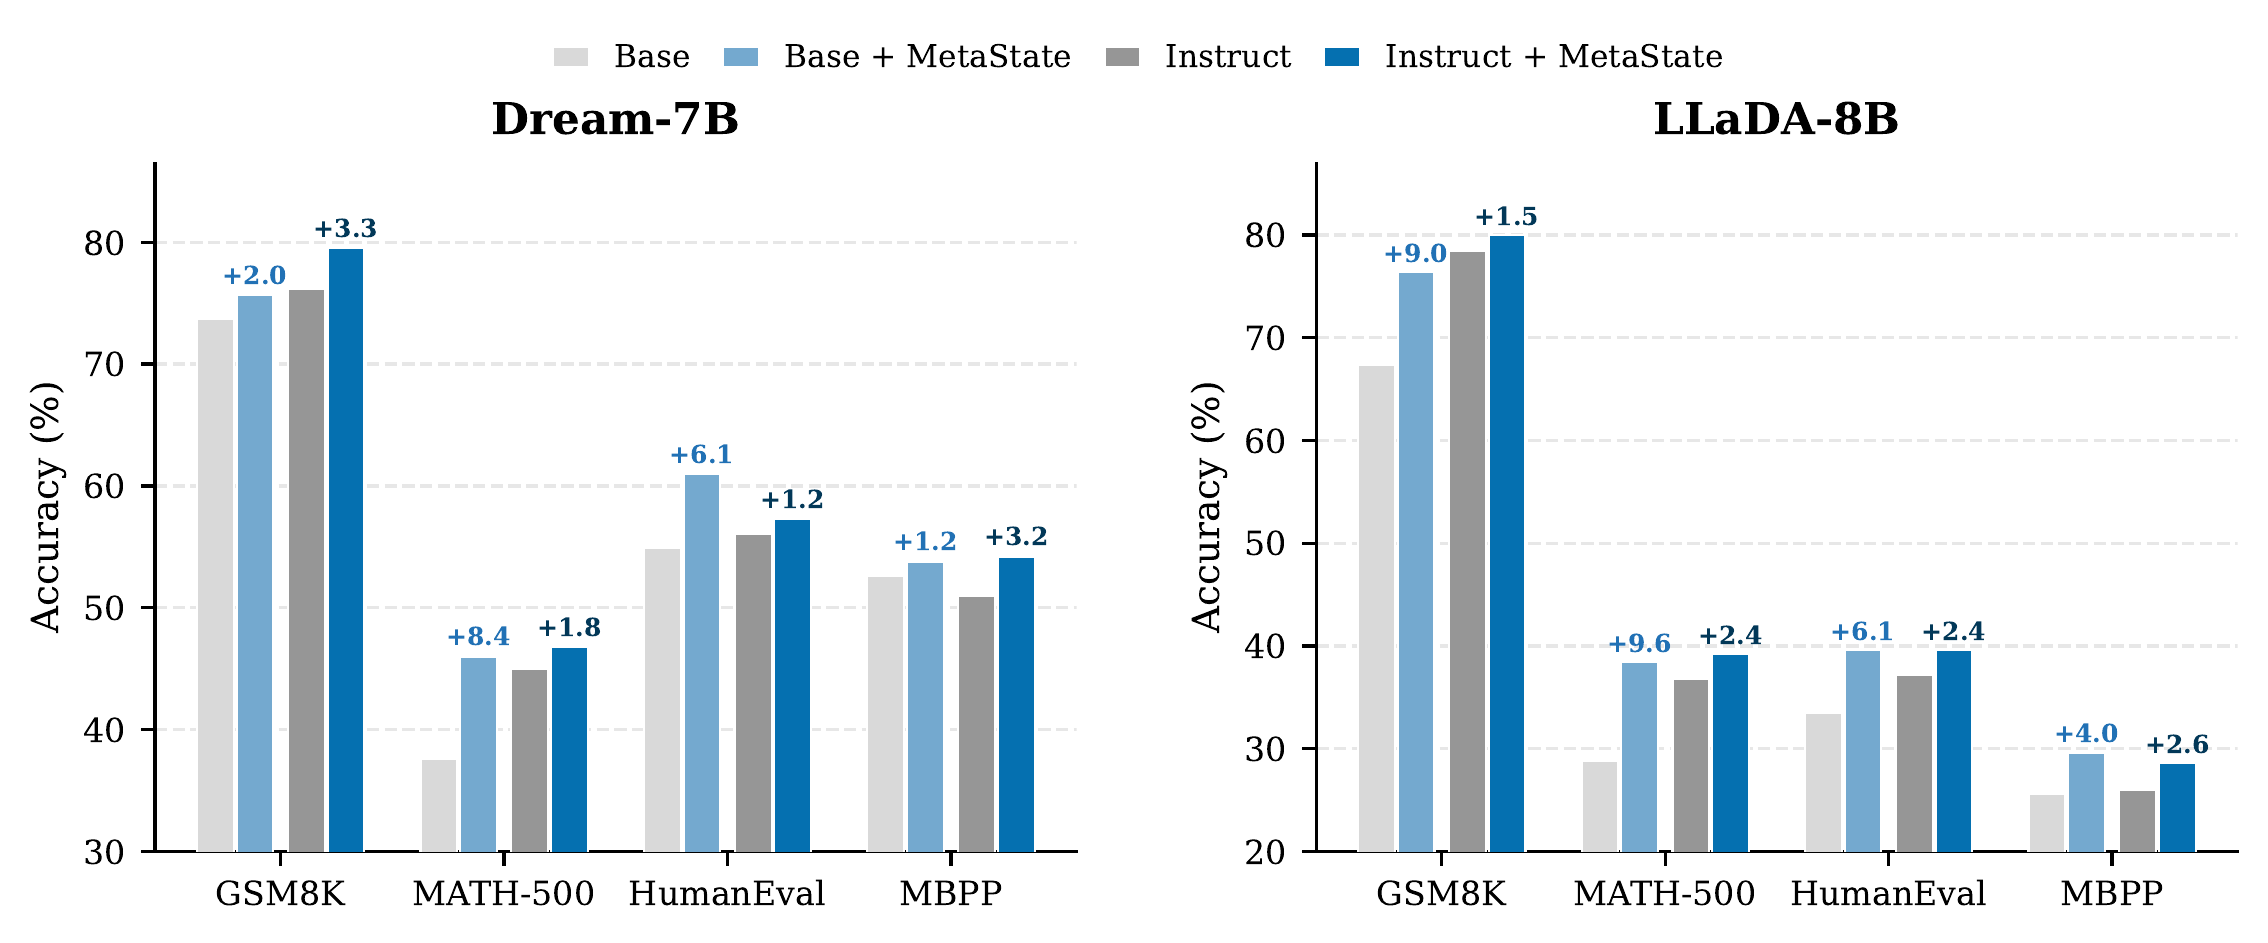
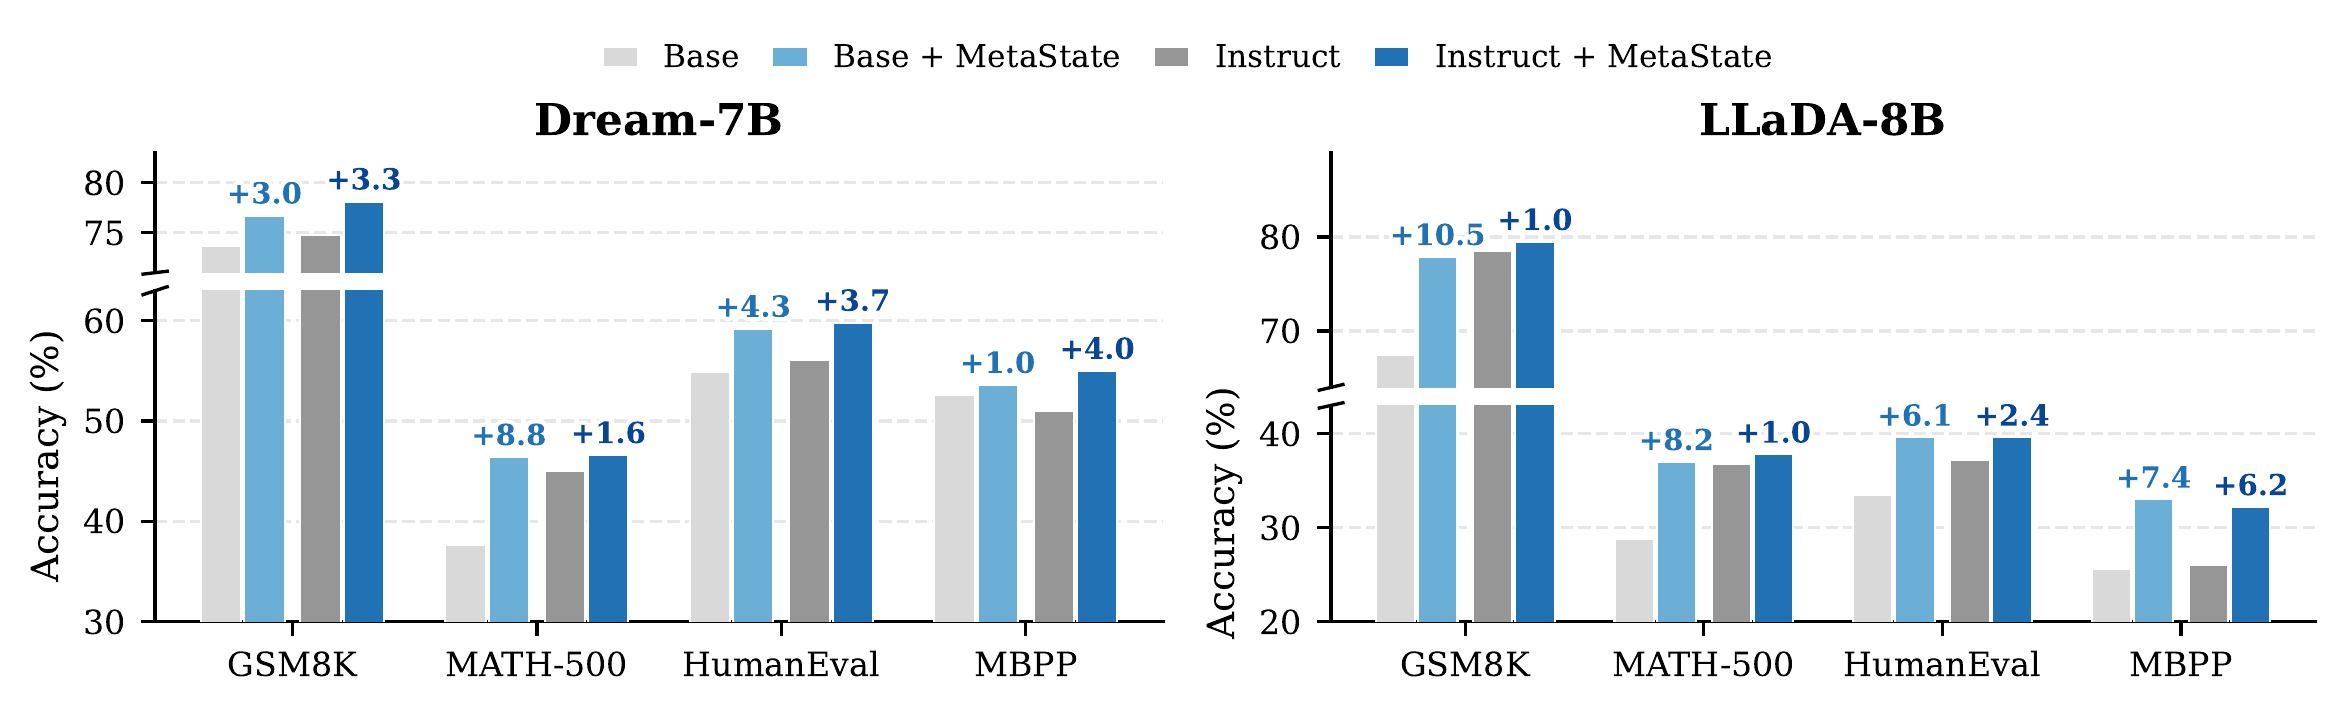
Update MetaState page with latest paper revision

Changed region(s): [[0.0, 0.2157, 0.9877, 0.986], [0.216, 0.0308, 0.8333, 0.2157]]

diff --git a/projects/metastate/index.html b/projects/metastate/index.html
@@ -4,12 +4,12 @@
 <head>
   <meta charset="UTF-8">
   <meta name="viewport" content="width=device-width, initial-scale=1.0">
-  <title>MetaState: Persistent Working Memory for Discrete Diffusion Language Models</title>
+  <title>MetaState: Persistent Working Memory Enhances Reasoning in Discrete Diffusion Language Models</title>
   <meta name="description"
-    content="MetaState equips frozen discrete diffusion language models with a lightweight recurrent working memory that persists across denoising steps, improving generation quality with negligible overhead.">
+    content="MetaState equips frozen discrete diffusion language models with a lightweight recurrent working memory that persists across denoising steps, improving reasoning performance with negligible overhead.">
 
   <!-- Open Graph -->
-  <meta property="og:title" content="MetaState: Persistent Working Memory for Discrete Diffusion Language Models">
+  <meta property="og:title" content="MetaState: Persistent Working Memory Enhances Reasoning in Discrete Diffusion Language Models">
   <meta property="og:description"
     content="A lightweight recurrent augmentation that equips frozen dLLMs with persistent cross-step working memory.">
   <meta property="og:image" content="assets/og-image.png">
@@ -474,13 +474,14 @@
   <!-- ==================== HERO ==================== -->
   <section class="hero">
     <div class="container">
-      <h1><strong>MetaState: Persistent Working Memory<br>for Discrete Diffusion Language Models</strong></h1>
+      <h1><strong>MetaState: Persistent Working Memory Enhances<br>Reasoning in Discrete Diffusion Language Models</strong></h1>
       <p class="hero-authors" id="authors">
         <strong><a href="https://les1a.github.io/">Kejing Xia</a></strong><sup>1</sup>,
         Mingzhe Li<sup>2</sup>,
         Lixuan Wei<sup>3</sup>,
         Zhenbang Du<sup>1</sup>,
         Xiangchi Yuan<sup>1</sup>,
+        Dachuan Shi<sup>1</sup>,
         Qirui Jin<sup>1</sup>,
         Wenke Lee<sup>1</sup>
         <br>
@@ -532,27 +533,25 @@
     <div class="container">
       <h2>Abstract</h2>
       <p>
-        Discrete diffusion language models (dLLMs) generate text by iteratively denoising a masked sequence. Compared
-        with autoregressive models, this paradigm naturally supports parallel decoding, bidirectional context, and
-        flexible generation patterns. However, standard dLLMs condition each denoising step only on the current
-        hard-masked sequence, while intermediate continuous representations are discarded after sampling and remasking.
-        We refer to this bottleneck as the <strong>Information Island</strong> problem. It leads to redundant
-        recomputation across steps and can degrade cross-step consistency.
+        Discrete diffusion language models (dLLMs) generate text by iteratively denoising a masked sequence. However,
+        standard dLLMs condition each denoising step solely on the current hard-masked sequence, while intermediate
+        continuous representations are discarded after sampling and remasking. We term this bottleneck the
+        <strong>Information Island</strong> issue: continuous information remains isolated within individual denoising
+        steps and fails to propagate across the trajectory. This bottleneck is especially harmful for reasoning, which
+        requires intermediate reasoning state to be preserved and updated across many denoising steps.
       </p>
       <p>
-        We address this limitation with <strong>MetaState</strong>, a lightweight recurrent augmentation that equips a
-        frozen dLLM backbone with a persistent, fixed-size working memory that remains independent of sequence length.
-        <strong>MetaState</strong> consists of three trainable modules: a cross-attention <em>Mixer</em> that reads
-        backbone activations into memory slots, a GRU-style <em>Updater</em> that integrates information across
-        denoising steps, and a cross-attention <em>Injector</em> that feeds the updated memory back into backbone
-        activations. We train these modules with <em>K</em>-step unrolling to expose them to multi-step denoising
-        dynamics during fine-tuning.
+        To address this limitation, we introduce <strong>MetaState</strong>, a lightweight recurrent augmentation that
+        equips a frozen dLLM backbone with persistent, fixed-size working memory. MetaState comprises three modules
+        with a shared time conditioner: a cross-attention <em>Mixer</em> that reads backbone activations into memory
+        slots, a GRU-style <em>Updater</em> that integrates information across steps, and a cross-attention
+        <em>Injector</em> that writes the updated memory back into the backbone. We train these modules with a
+        dedicated <em>K</em>-step unrolling pipeline to learn multi-step dynamics.
       </p>
       <p>
-        On LLaDA-8B and Dream-7B, <strong>MetaState</strong> introduces negligible trainable parameters while keeping
-        the backbone frozen, and it consistently improves accuracy over frozen baselines. These results demonstrate that
-        persistent cross-step memory is an effective mechanism for bridging denoising steps and improving generation
-        quality in discrete diffusion language models.
+        <strong>MetaState</strong> adds only ~0.6% trainable parameters while keeping the backbone frozen, and
+        consistently improves reasoning performance over frozen baselines on mathematical reasoning and code generation
+        benchmarks, with an average gain of 4.5% across all evaluations.
       </p>
     </div>
   </section>
@@ -627,38 +626,38 @@
             </tr>
             <tr>
               <td>&nbsp;&nbsp;+ MetaState</td>
-              <td class="bold">75.7</td>
-              <td class="bold">46.0</td>
-              <td class="bold">61.0</td>
-              <td class="bold">53.8</td>
+              <td class="bold">76.7</td>
+              <td class="bold">46.4</td>
+              <td class="bold">59.2</td>
+              <td class="bold">53.6</td>
             </tr>
             <tr class="delta">
               <td>&nbsp;&nbsp;&nbsp;&nbsp;&Delta; vs. Base</td>
-              <td>+2.0</td>
-              <td>+8.4</td>
-              <td>+6.1</td>
-              <td>+1.2</td>
+              <td>+3.0</td>
+              <td>+8.8</td>
+              <td>+4.3</td>
+              <td>+1.0</td>
             </tr>
             <tr>
               <td>Dream-Instruct</td>
-              <td>76.2</td>
+              <td>74.8</td>
               <td>45.0</td>
               <td>56.1</td>
               <td>51.0</td>
             </tr>
             <tr>
               <td>&nbsp;&nbsp;+ MetaState</td>
-              <td class="bold">79.5</td>
-              <td class="bold">46.8</td>
-              <td class="bold">57.3</td>
-              <td class="bold">54.2</td>
+              <td class="bold">78.1</td>
+              <td class="bold">46.6</td>
+              <td class="bold">59.8</td>
+              <td class="bold">55.0</td>
             </tr>
             <tr class="delta">
               <td>&nbsp;&nbsp;&nbsp;&nbsp;&Delta; vs. Instruct</td>
               <td>+3.3</td>
-              <td>+1.8</td>
-              <td>+1.2</td>
-              <td>+3.2</td>
+              <td>+1.6</td>
+              <td>+3.7</td>
+              <td>+4.0</td>
             </tr>
             <!-- LLaDA backbone (8B) -->
             <tr class="group-header">
@@ -673,17 +672,17 @@
             </tr>
             <tr>
               <td>&nbsp;&nbsp;+ MetaState</td>
-              <td class="bold">76.4</td>
-              <td class="bold">38.4</td>
+              <td class="bold">77.9</td>
+              <td class="bold">37.0</td>
               <td class="bold">39.6</td>
-              <td class="bold">29.6</td>
+              <td class="bold">33.0</td>
             </tr>
             <tr class="delta">
               <td>&nbsp;&nbsp;&nbsp;&nbsp;&Delta; vs. Base</td>
-              <td>+9.0</td>
-              <td>+9.6</td>
+              <td>+10.5</td>
+              <td>+8.2</td>
               <td>+6.1</td>
-              <td>+4.0</td>
+              <td>+7.4</td>
             </tr>
             <tr>
               <td>LLaDA-Instruct</td>
@@ -694,17 +693,17 @@
             </tr>
             <tr>
               <td>&nbsp;&nbsp;+ MetaState</td>
-              <td class="bold">80.0</td>
-              <td class="bold">39.2</td>
+              <td class="bold">79.5</td>
+              <td class="bold">37.8</td>
               <td class="bold">39.6</td>
-              <td class="bold">28.6</td>
+              <td class="bold">32.2</td>
             </tr>
             <tr class="delta">
               <td>&nbsp;&nbsp;&nbsp;&nbsp;&Delta; vs. Instruct</td>
-              <td>+1.5</td>
+              <td>+1.0</td>
+              <td>+1.0</td>
               <td>+2.4</td>
-              <td>+2.4</td>
-              <td>+2.6</td>
+              <td>+6.2</td>
             </tr>
           </tbody>
         </table>
@@ -740,8 +739,8 @@
     // ===== BibTeX =====
     const BIBTEX = [
       '@article{xia2026metastate,',
-      '  title     = {MetaState: Persistent Working Memory for Discrete Diffusion Language Models},',
-      '  author    = {Xia, Kejing and Li, Mingzhe and Wei, Lixuan and Du, Zhenbang and Yuan, Xiangchi and Jin, Qirui and Lee, Wenke},',
+      '  title     = {MetaState: Persistent Working Memory Enhances Reasoning in Discrete Diffusion Language Models},',
+      '  author    = {Xia, Kejing and Li, Mingzhe and Wei, Lixuan and Du, Zhenbang and Yuan, Xiangchi and Shi, Dachuan and Jin, Qirui and Lee, Wenke},',
       '  journal   = {arXiv preprint arXiv:2603.01331},',
       '  year      = {2026}',
       '}'

diff --git a/_pages/about.md b/_pages/about.md
@@ -101,8 +101,8 @@ You can view my [CV here](../assets/3_CV.pdf). (Updated in Feb. 2026)
       <div class="placeholder-text" style="display:none;">Image Placeholder</div>
     </div>
     <div class="pub-content">
-      <div class="pub-title">MetaState: Persistent Working Memory for Discrete Diffusion Language Models</div>
-      <!-- <div class="pub-authors"><strong>Kejing Xia</strong>, Mingzhe Li, Lixuan Wei, Zhenbang Du, Xiangchi Yuan, Qirui Jin, Wenke Lee</div> -->
+      <div class="pub-title">MetaState: Persistent Working Memory Enhances Reasoning in Discrete Diffusion Language Models</div>
+      <!-- <div class="pub-authors"><strong>Kejing Xia</strong>, Mingzhe Li, Lixuan Wei, Zhenbang Du, Xiangchi Yuan, Dachuan Shi, Qirui Jin, Wenke Lee</div> -->
       <div class="pub-venue">arXiv Preprint</div>
       <div class="pub-links">
         <a href="https://arxiv.org/abs/2603.01331">Paper</a>
@@ -190,7 +190,7 @@ You can view my [CV here](../assets/3_CV.pdf). (Updated in Feb. 2026)
      格式: Markdown 列表，直接编辑即可 -->
 
 ## 🔬 Research Experience
-* **GTISC Lab, Georgia Tech (Jan. 2026 – Present)** - Working on MetaState: Persistent Working Memory for Discrete Diffusion Language Models.
+* **GTISC Lab, Georgia Tech (Jan. 2026 – Present)** - Working on MetaState: Persistent Working Memory Enhances Reasoning in Discrete Diffusion Language Models.
 * **EIC Lab, Georgia Tech (May 2024 – Feb. 2026)** - Led & deeply involved in projects on R<sup>2</sup>-dLLM, Soft Token Interpolation, LongMamba, and LAMB, proposing training-free approaches and novel decoding methods for efficient language models.
 * **Signal Processing Lab, Wuhan University (Oct. 2023 – Apr. 2024)** - Co-led BRS-E<sup>2</sup>NeRF, developing event-enhanced NeRFs to reconstruct sharp images from rolling shutter blur.
 * **Center for Machine Vision and Signal Analysis (CMVS), University of Oulu (2023-2024)** - Led research on event-based human behavior analysis with spatio-temporal transformers, presented at IJCAI 2024 (MiGA Workshop).
